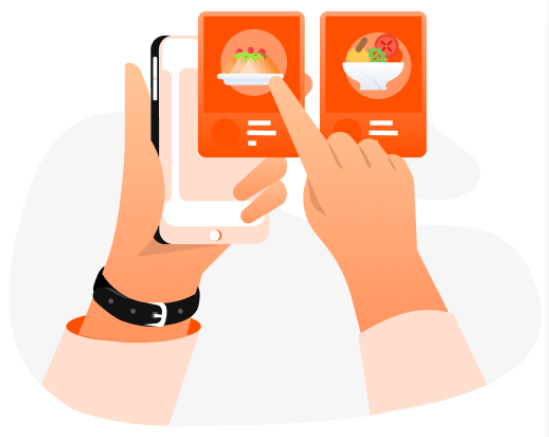
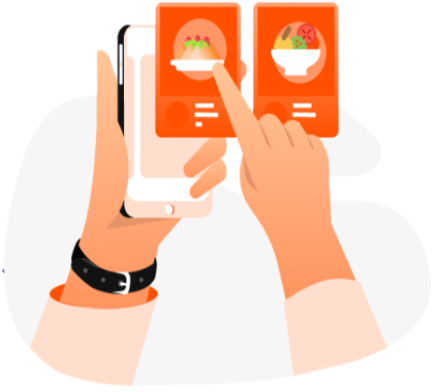
feat(New import): imported images from images folder

diff --git a/src/Pages/LandingPage/Announcement/Main.jsx b/src/Pages/LandingPage/Announcement/Main.jsx
@@ -2,7 +2,9 @@ import React from 'react'
 import Wrapper from '../../../UI/Wrapper/Wrapper'
 import dash from '../../../assets/dash.png'
 import AnnouncementCard from './AnnouncementCard'
-
+import box1 from './images/box1.png'
+import box2 from './images/box2.png'
+import box3 from './images/box3.png'
 const Announcement = () => {
   return (
     <Wrapper bg_color=" bg-stone-200">
@@ -14,8 +16,10 @@ const Announcement = () => {
           </h5>
           <img src={dash} alt="/" className="w-[300px] h-[60px] mt-[-9px]" />
         </header>
-        <div className='grid grid-cols-3'>
-           {}
+        <div className='grid grid-cols-3 gap-[7rem] px-10'>
+           <AnnouncementCard image={box1} top_text="choose your meals" bottom_text="20+ menus to choose from" />
+           <AnnouncementCard image={box2} top_text="we deliver it to you" bottom_text="Choose your dates for delivery" />
+           <AnnouncementCard image={box3} top_text="ccook & enjoy" bottom_text="Eat your freshly cooked meal" />
         </div>
     </div>
     </Wrapper>

diff --git a/src/Pages/LandingPage/Announcement/AnnouncementCard.jsx b/src/Pages/LandingPage/Announcement/AnnouncementCard.jsx
@@ -1,14 +1,14 @@
 import React from 'react'
 
-const AnnouncementCard = () => {
+const AnnouncementCard = ({image, top_text, bottom_text}) => {
   return (
-    <div className='bg-white'>
-    <figure className='w-full h-[220.06px]'>
-        <img src='box1' alt='/' className=' w-full h-full object-cover' />
+    <div className='bg-white py-9 h-[400px] rounded-[2rem] flex flex-col justify-center items-center gap-4 px-2'>
+    <figure className='w-[100%] h-fit'>
+        <img src={image} alt='/' className=' w-full h-full object-cover mx-auto' />
     </figure>
-    <div className='body-font font-poppins'>
-        <p className='capitalize text-[var(--secondary)] text-lg'>Choose your meals</p>
-       <p className='text-[#868e96] text-sm '>20+ menus to choose from</p>
+    <div className='body-font font-poppins text-center'>
+        <p className='capitalize text-[var(--secondary)] text-lg font-semibold'>{top_text}</p>
+       <p className='text-[#868e96] text-sm font-semibold '>{bottom_text}</p>
     </div>
 
 
